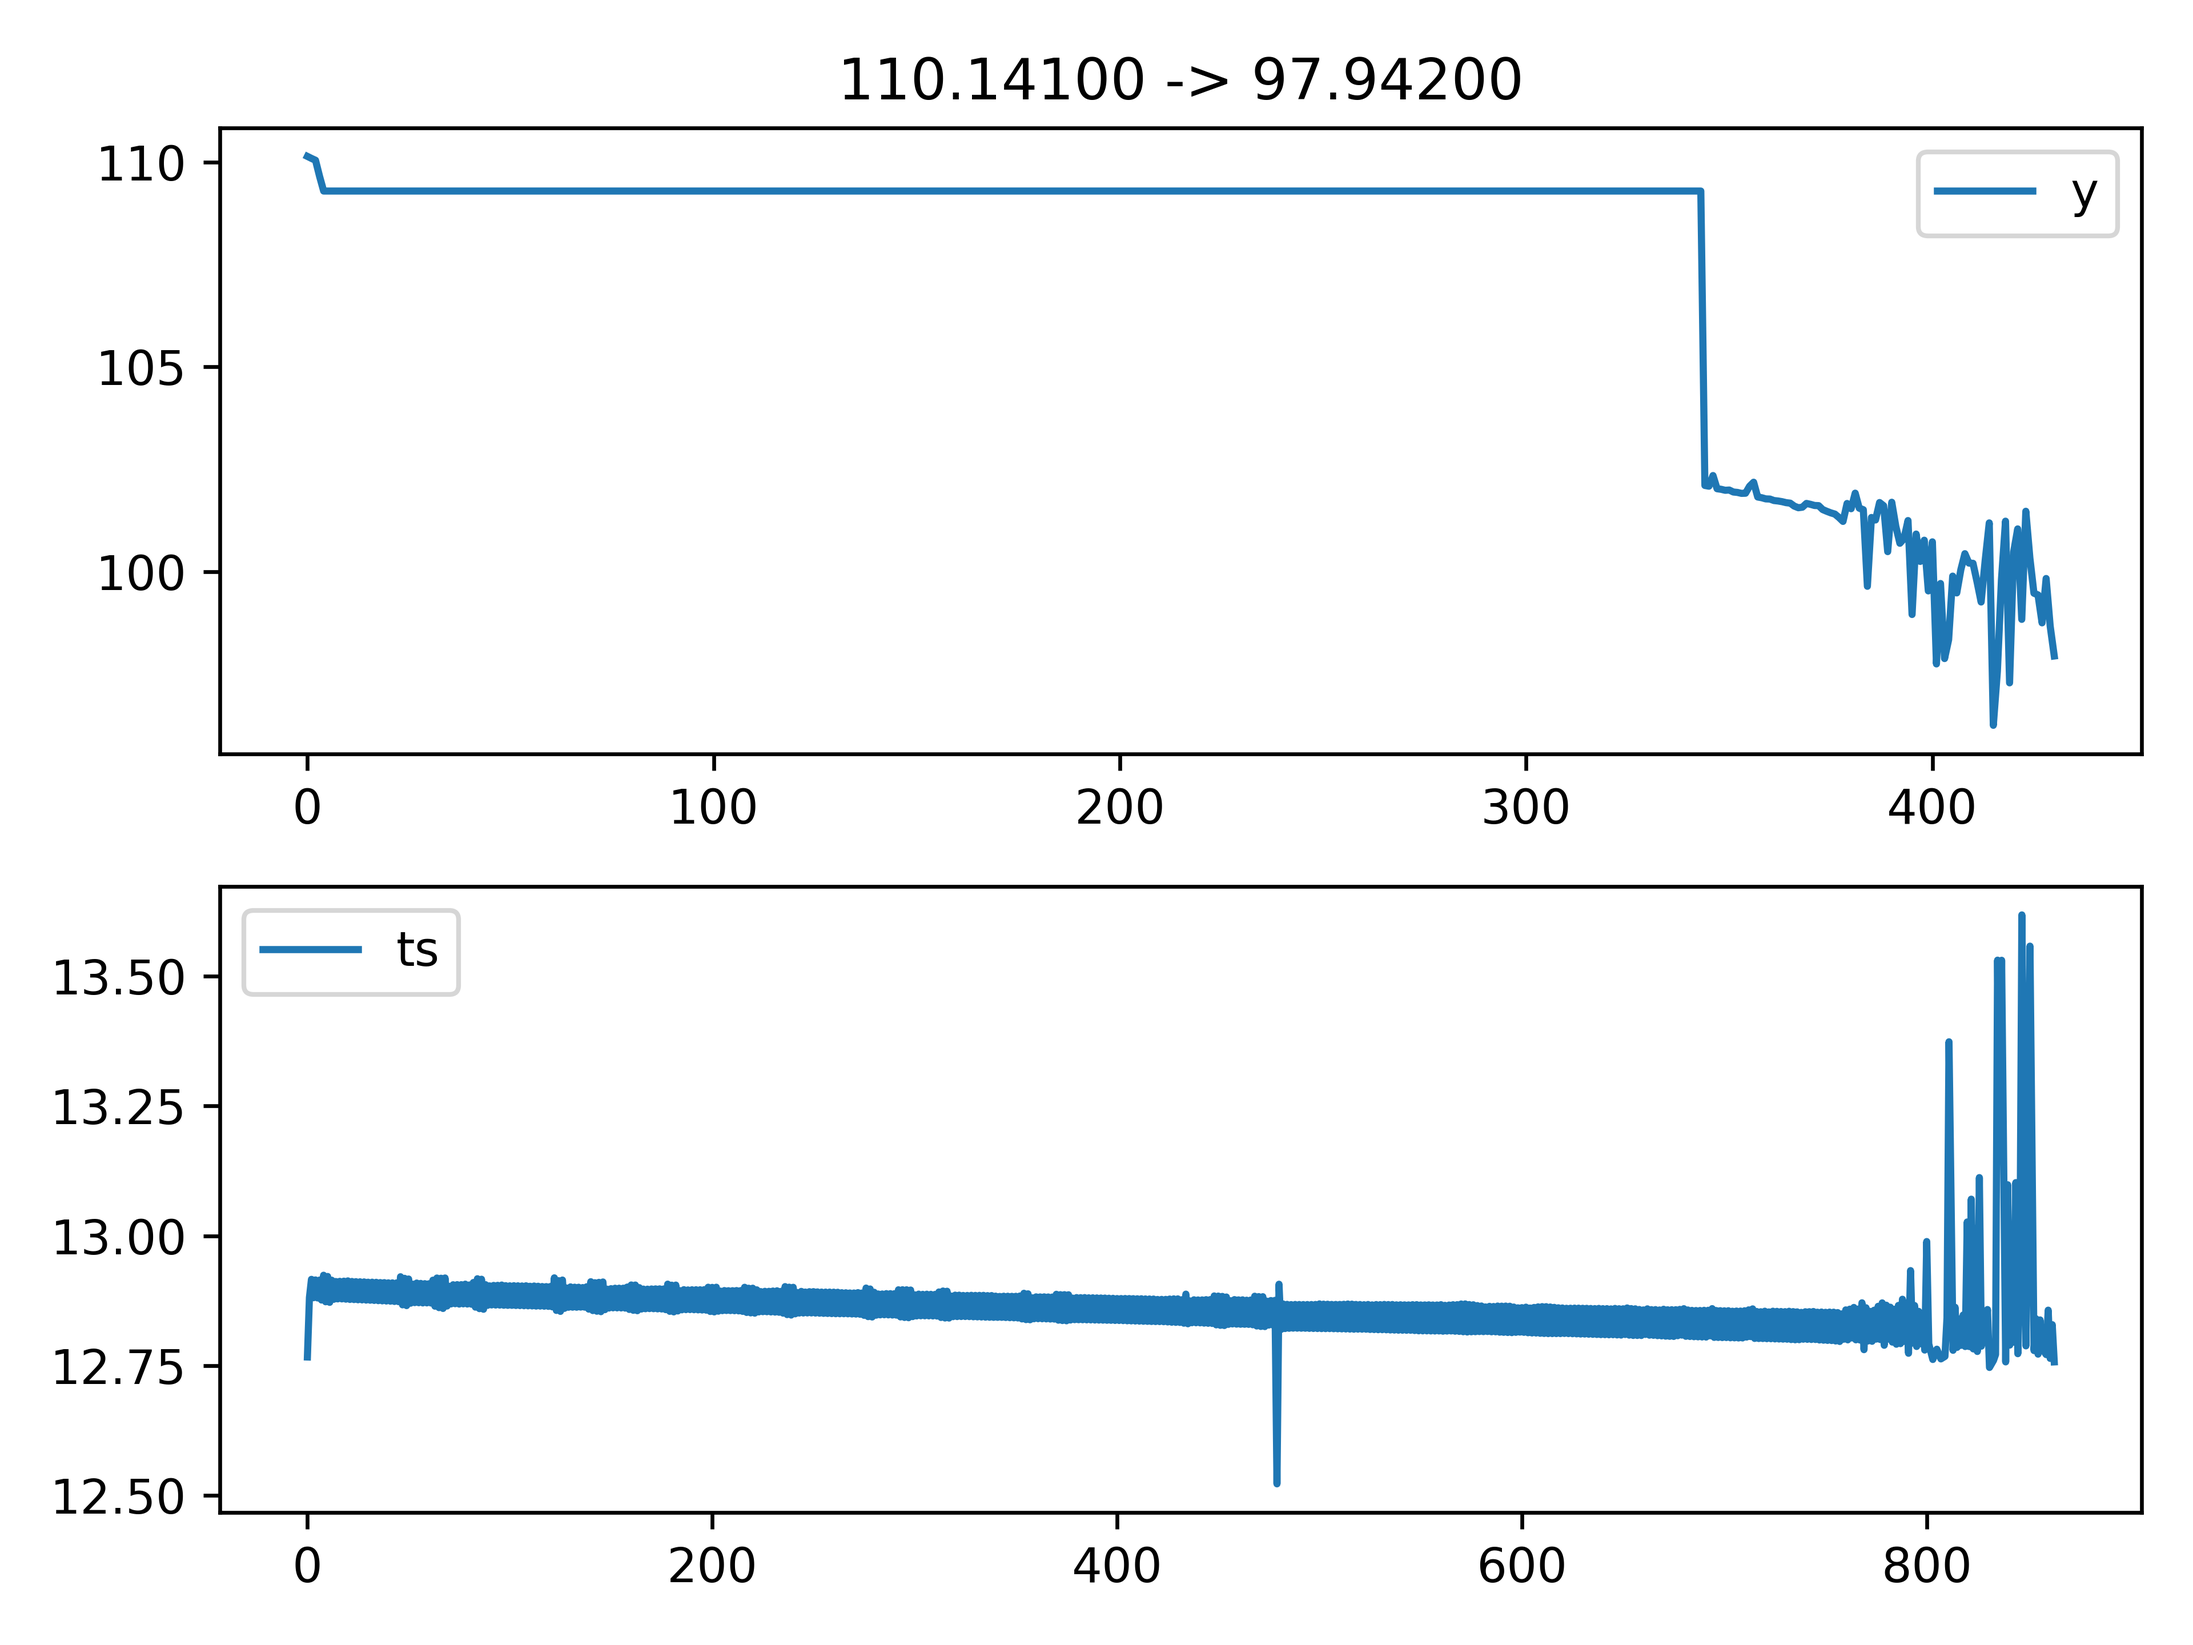
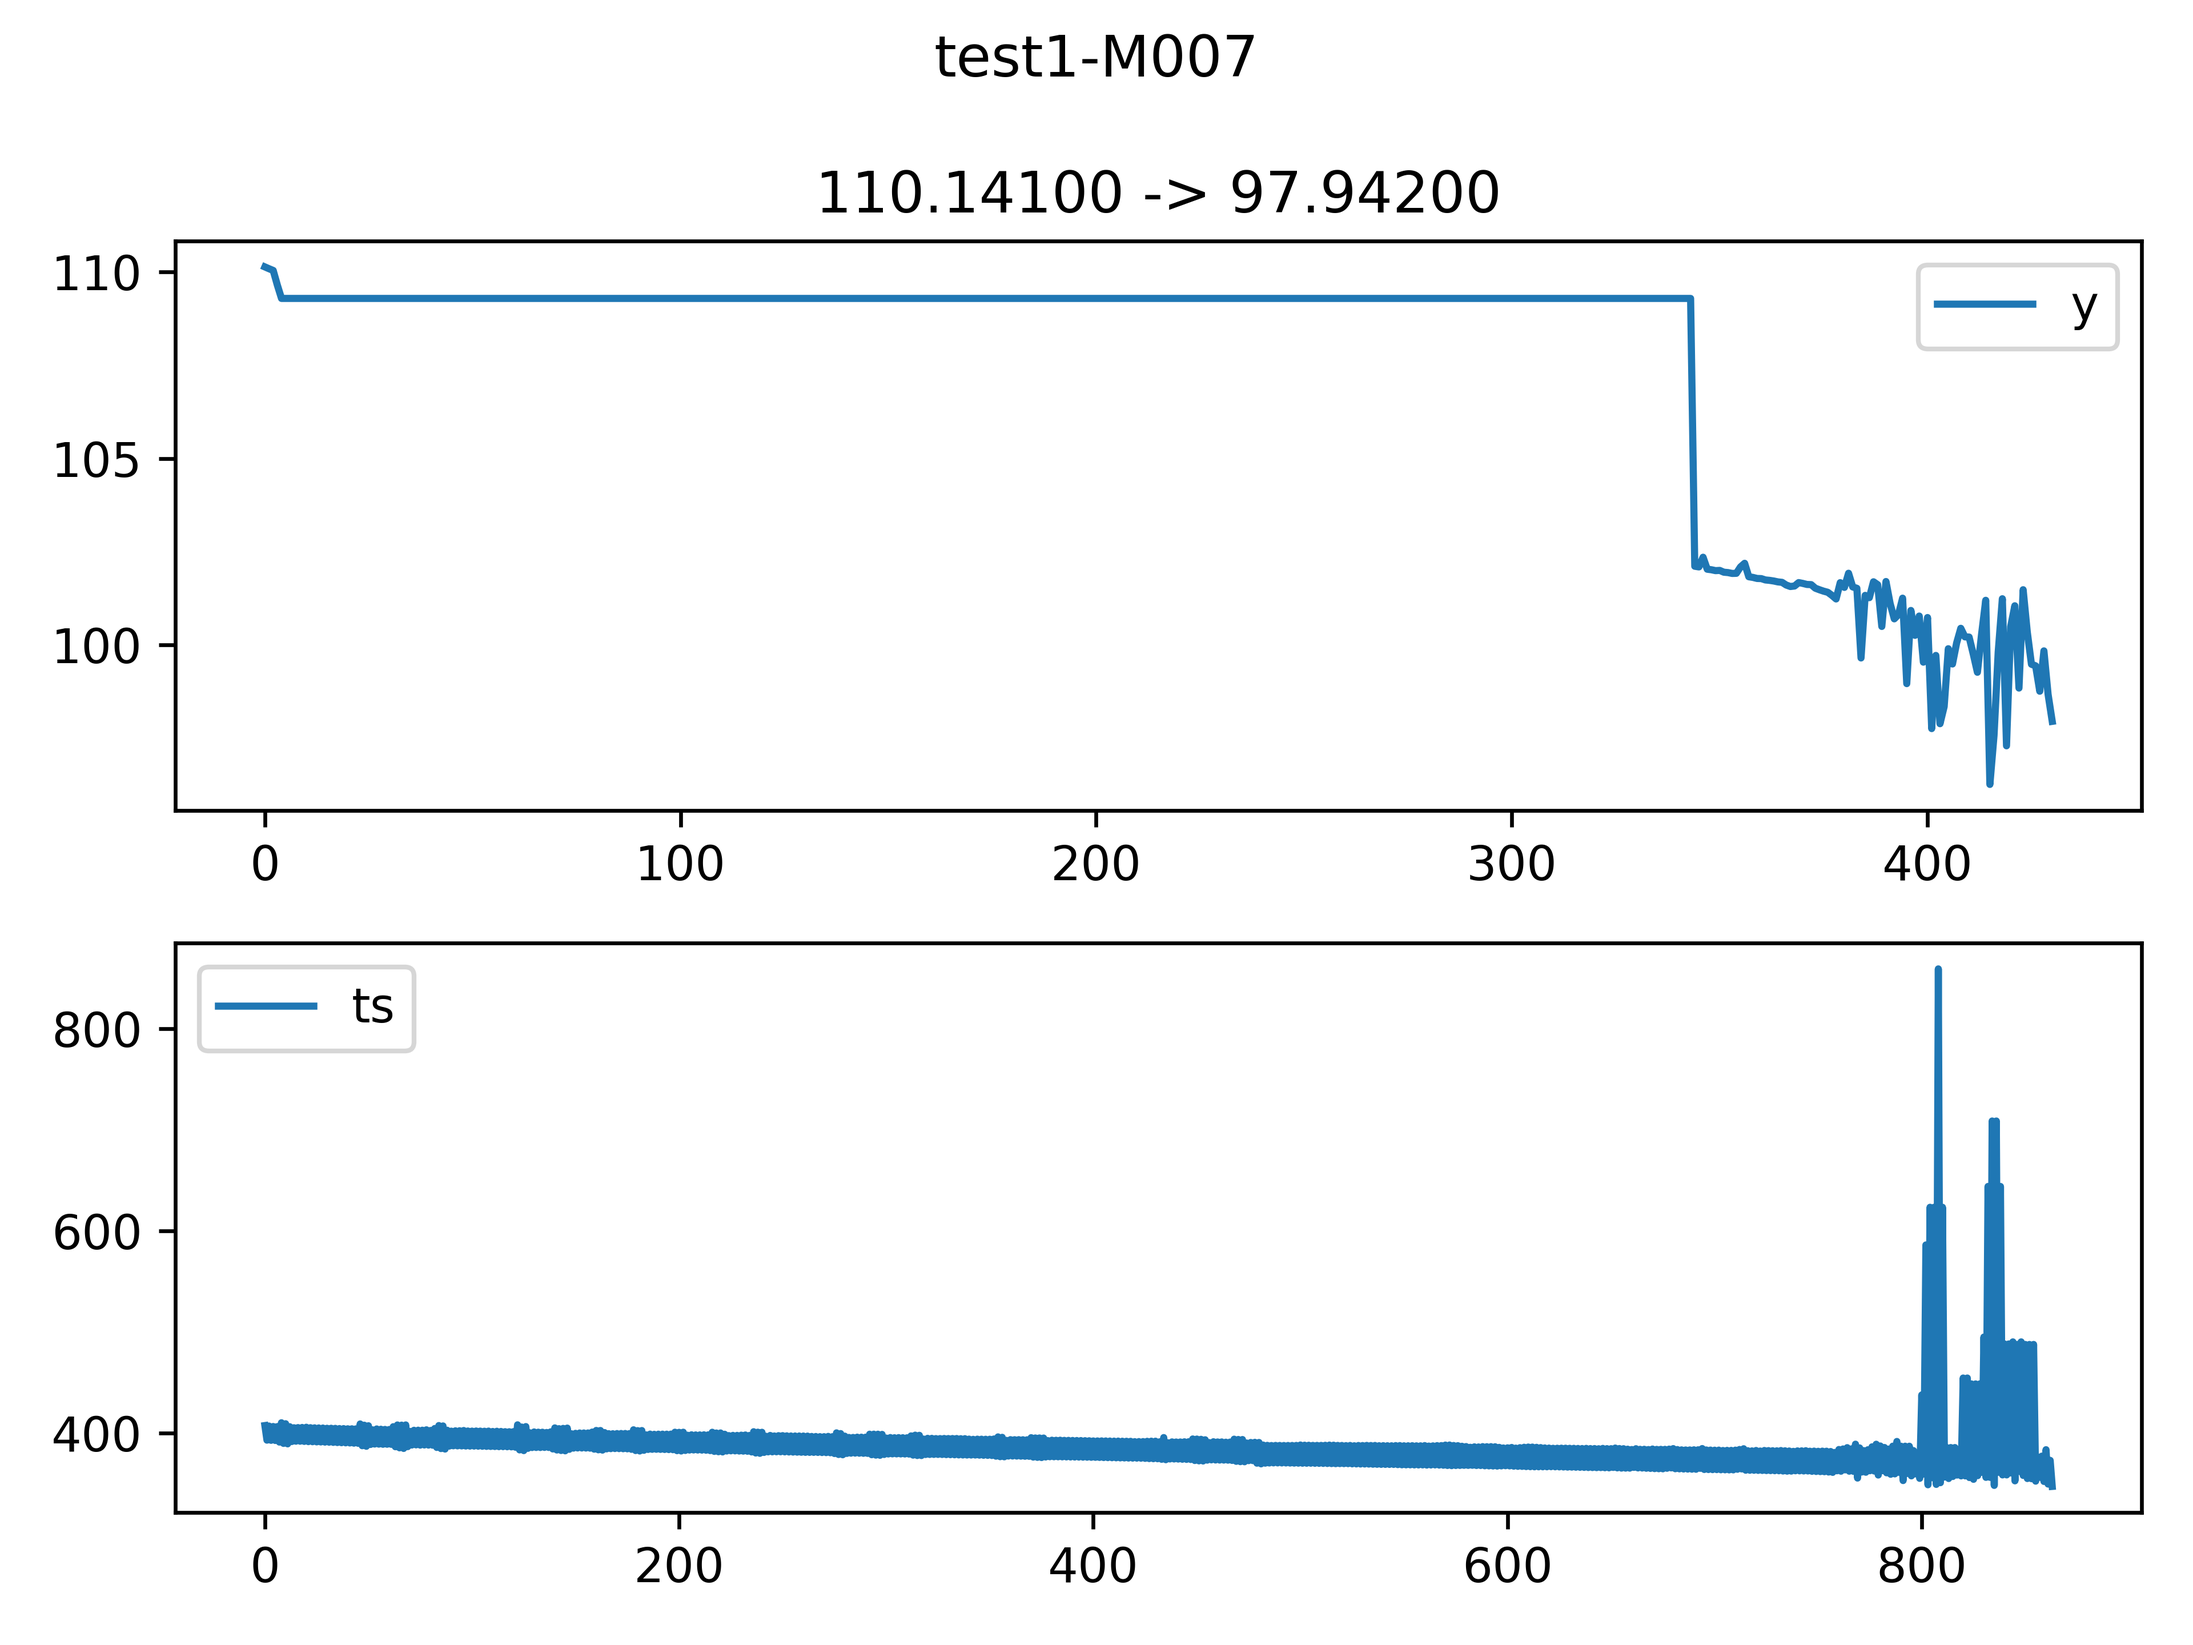
smooth ts
score: 1.728, rank: 33

diff --git a/data.py b/data.py
@@ -2,6 +2,8 @@
 # Author: Armit
 # Create Time: 2024/02/17
 
+from scipy.signal import medfilt
+
 from utils import *
 
 DATA_FILES = {
@@ -79,22 +81,105 @@ def _rpad_y(df_cyc:DataFrame) -> ndarray:
   df_cyc['y'] = x
   return df_cyc
 
-def _log1p_ts(df_act:DataFrame) -> DataFrame:
+def _smooth_ts(df_act:DataFrame, id:str) -> DataFrame:
+  # truncate known tailing abnormal
+  if id == 'M001':
+    df_act = df_act[df_act['cid'] != 906]
+
+  # now we focus on 'ts'
+  ts = df_act['ts'].to_numpy()
+  del df_act['ts']
+
+  # pad right-end missing data
+  if id == 'M005':
+    def right_end_repeat_pad(x:ndarray) -> ndarray:
+      # valid data
+      xlen = len(x)
+      i = 0
+      while x[i] > 0: i += 1
+      x_valid = x[:i]
+      # cyclic repeat segment
+      REP_LEN = 10        # MAGIC: I just counted it out manually :)
+      nlen_pad = xlen - len(x_valid)
+      npad_count = nlen_pad // REP_LEN
+      npad_reminder = nlen_pad % REP_LEN
+      x_rep = x_valid[-REP_LEN:].tolist()
+      # padded data
+      x_padded = np.concatenate([x_rep * npad_count, x_rep[:npad_reminder]], axis=0)
+      # use linear regression to manually decay the padded data
+      if 'LinearRegression':
+        from scipy.optimize import curve_fit
+        def func(x, k, b): return k * x + b
+
+        x_linear = x[500:1000]    # MAGIC: I juts observe that this range is a linear decay...
+        x_linear_medfilt = medfilt(x_linear, kernel_size=7)
+        xdata = list(range(500, 1000))
+        ydata = x_linear_medfilt
+        popt, pcov = curve_fit(func, xdata, ydata)
+        k, b = popt
+        for i in range(len(x_padded)):
+          x_padded[i] += k * (i + 1)
+      # concat up
+      x_refixed = np.concatenate([x_valid, x_padded], axis=0)
+      assert len(x_refixed) == xlen
+      return x_refixed
+
+    x_original = ts
+    x_even = right_end_repeat_pad(x_original[0::2])
+    x_odd  = right_end_repeat_pad(x_original[1::2])
+    x_refixed = np.empty_like(x_original)
+    x_refixed[0::2] = x_even
+    x_refixed[1::2] = x_odd
+    ts = x_refixed
+
+    if not 'plot':
+      plt.clf()
+      plt.subplot(211) ; plt.title('x_even') ; plt.plot(x_even)
+      plt.subplot(212) ; plt.title('x_odd')  ; plt.plot(x_odd)
+      plt.show()
+
+  # left-end-fix and median-filter
+  if 'smooth filter':
+    def left_end_extra_lerp(x:ndarray) -> ndarray:
+      from scipy.interpolate import interp1d
+      line = interp1d([1, 2, 3], x[1:4], kind='slinear', fill_value='extrapolate')
+      x[0] = line(0).item()
+      return x
+
+    x_original = ts
+    # unzip
+    x_even = x_original[0::2]
+    x_odd  = x_original[1::2]
+    # fix starting point abnormal
+    x_even = left_end_extra_lerp(x_even)
+    # fix single-point abnormal
+    x_smoothed = np.empty_like(x_original)
+    # zip
+    x_smoothed[0::2] = medfilt(x_even, kernel_size=5)
+    x_smoothed[1::2] = medfilt(x_odd,  kernel_size=5)
+
+    x_diff = np.abs(x_smoothed - x_original)
+    x_final = np.where(x_diff < 7.5 * 1000, x_original, x_smoothed)   # MAGIC: what's better
+    ts = x_final
+
+  if False:
+    plt.clf()
+    plt.subplot(211) ; plt.title('x_diff')  ; plt.plot(x_diff)
+    plt.subplot(212) ; plt.title('x_final') ; plt.plot(df_act['ts'])
+    plt.show()
+
   # vrng renorm
-  df_act['ts'] = np.log1p(df_act['ts'].to_numpy())
+  #ts = np.log1p(ts)
+  ts = ts / 1000
 
-  local_mean = lambda x, i: (x[i-1] + x[i+1]) / 2
+  # write back, avoid warning
+  df_act_new = DataFrame()
+  df_act_new['cid'] = df_act['cid']
+  df_act_new['aid'] = df_act['aid']
+  df_act_new['act'] = df_act['act']
+  df_act_new['ts'] = np.asarray(ts).astype(np.float32)
 
-  # mean filter for potential abnormals
-  x = df_act['ts'].to_numpy()
-  for i in range(1, len(x)-1):
-    mean = local_mean(x, i)
-    diff = abs(x[i] - mean)
-    if diff > 0.5:    # MAGIC: better way?
-      x[i] = mean
-  df_act['ts'] = x
-
-  return df_act
+  return df_act_new
 
 
 def load_data(split:str, id:str, rpad_test:bool=False) -> Tuple[DataFrame, DataFrame]:
@@ -105,5 +190,11 @@ def load_data(split:str, id:str, rpad_test:bool=False) -> Tuple[DataFrame, DataF
     df_cyc = _smooth_y(df_cyc, id)
   if rpad_test:
     df_cyc = _rpad_y(df_cyc)
-  df_act = _log1p_ts(df_act)
+  df_act = _smooth_ts(df_act, id)
   return df_cyc, df_act
+
+
+if __name__ == '__main__':
+  for split, ids in DATA_FILES.items():
+    for id in ids:
+      df_cyc, df_act = load_data(split, id)

diff --git a/stats.py b/stats.py
@@ -2,8 +2,6 @@
 # Author: Armit
 # Create Time: 2024/02/14
 
-import matplotlib.pyplot as plt
-
 from data import *
 
 
@@ -20,6 +18,7 @@ def stats_single():
       plt.clf()
       plt.subplot(211) ; plt.plot(y,  label='y')  ; plt.legend() ; plt.title(f'{y[0]:.5f} -> {y[-1]:.5f}')
       plt.subplot(212) ; plt.plot(ts, label='ts') ; plt.legend()
+      plt.suptitle(f'{split}-{id}')
       plt.tight_layout()
       fp = IMG_PATH / f'{split}-{id}.png'
       print(f'>> savefig {fp}')

diff --git a/linear.py b/linear.py
@@ -12,7 +12,6 @@ from sklearn.linear_model._base import LinearModel
 from sklearn.model_selection import KFold
 from sklearn.metrics import mean_absolute_error, r2_score, mean_absolute_percentage_error
 from scipy.signal import medfilt
-import matplotlib.pyplot as plt
 
 from data import *
 

diff --git a/lgb.py b/lgb.py
@@ -9,7 +9,6 @@ from lightgbm import Booster
 from sklearn.model_selection import KFold
 from sklearn.metrics import mean_absolute_error, r2_score, mean_absolute_percentage_error
 from scipy.signal import medfilt
-import matplotlib.pyplot as plt
 
 from data import *
 

diff --git a/utils.py b/utils.py
@@ -16,6 +16,7 @@ from numpy import ndarray
 import pandas as pd
 from pandas import DataFrame
 from tqdm import tqdm
+import matplotlib.pyplot as plt
 
 device = 'cuda' if torch.cuda.is_available() else 'cpu'
 

diff --git a/mk_data.py b/mk_data.py
@@ -10,7 +10,6 @@ from traceback import print_exc
 import pandas as pd
 from pandas import DataFrame
 from openpyxl import open as XlsxFile, Workbook
-import matplotlib.pyplot as plt
 
 from utils import *
 
